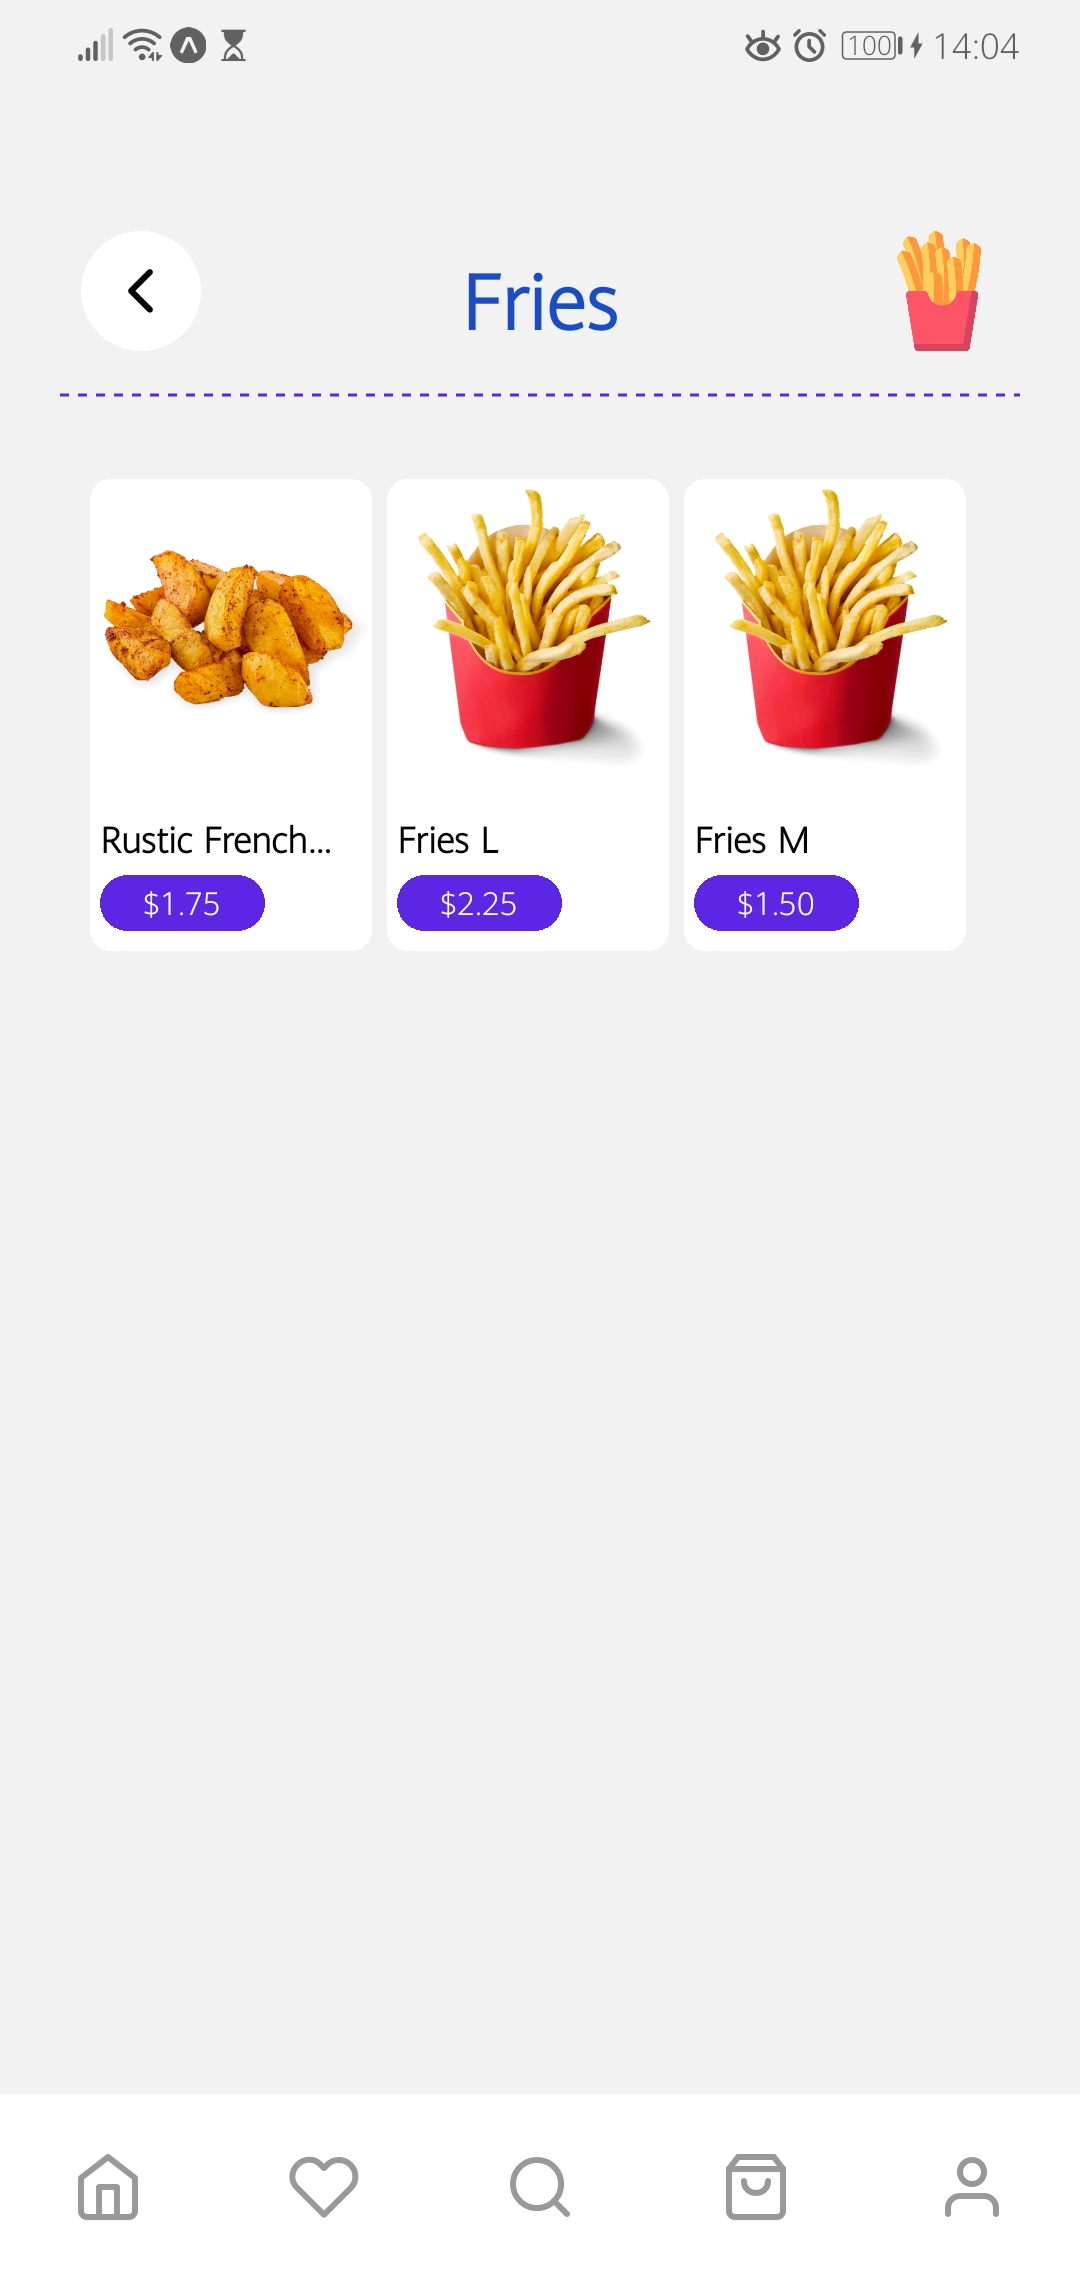
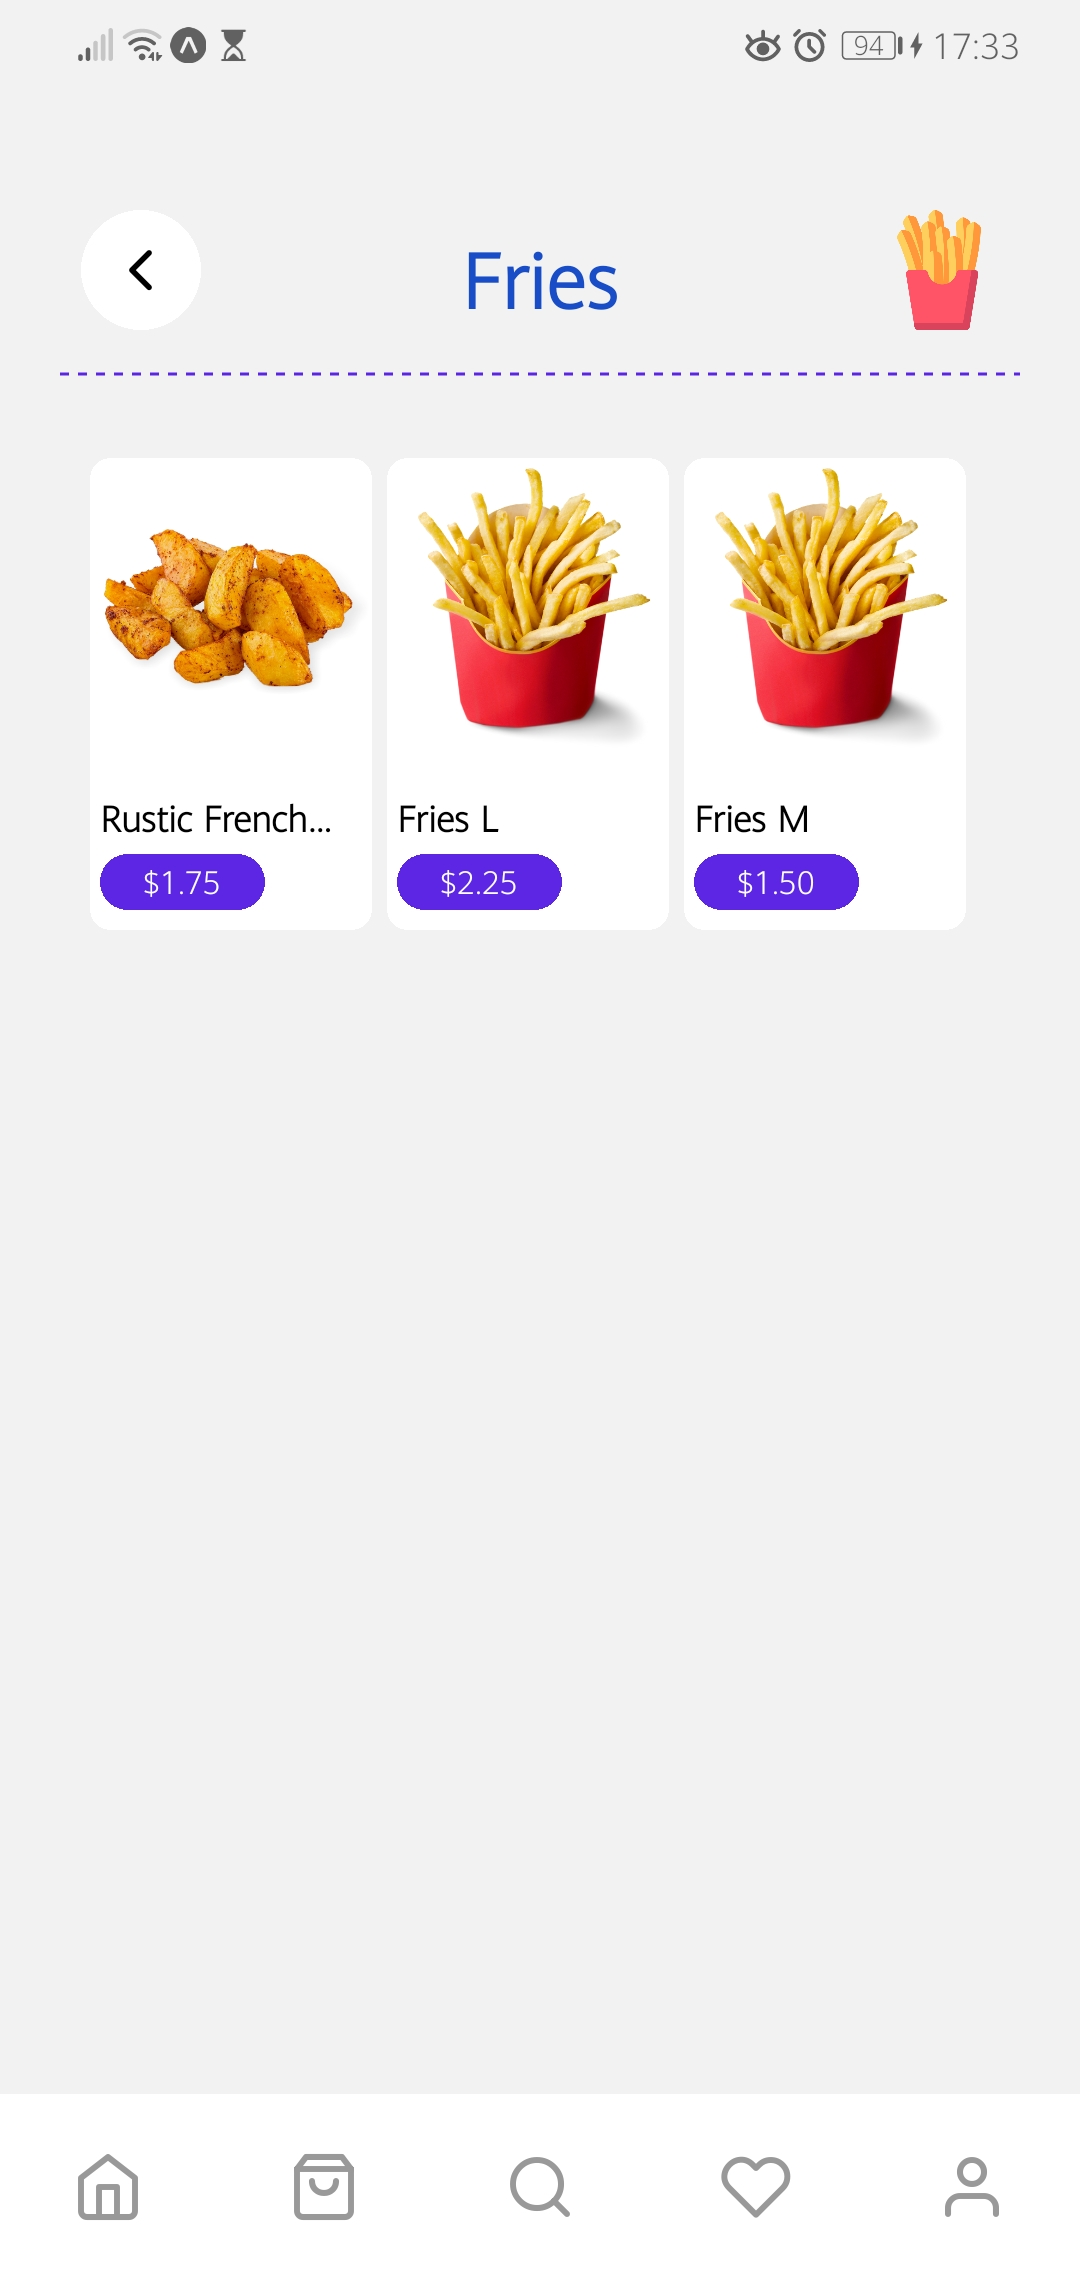
feat: favourite button

diff --git a/food-delivery-react-native/food-delivery-client/app/screens/category/index.tsx b/food-delivery-react-native/food-delivery-client/app/screens/category/index.tsx
@@ -27,7 +27,7 @@ export const CategoryScreen: React.FC = () => {
   if (!isLoading && !category) {
     return (
       <Container>
-        <GoBackButton/>
+        <GoBackButton size="small"/>
         <Heading>Category not found</Heading>
       </Container>
     );
@@ -35,8 +35,7 @@ export const CategoryScreen: React.FC = () => {
 
   return (
     <Container>
-
-      <View className="flex flex-row items-end justify-between relative gap-x-2 p-2 pb-4 border-b border-dashed border-b-primary">
+      <View className="flex flex-row items-end justify-between relative gap-x-2 p-2 pt-0 pb-4 border-b border-dashed border-b-primary">
         <GoBackButton size="small"/>
 
         <Heading size="page">{category?.name}</Heading>
